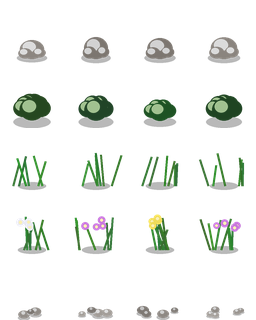
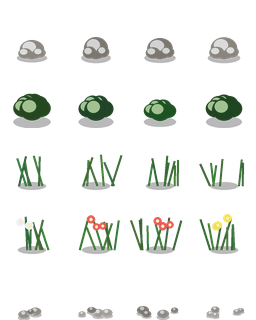
feat: water HD pass + terrain polish nits (#241, #243) (#259)
* feat: water HD pass + terrain polish nits (#241, #243)

Finish the map's visible art with the lead-artist follow-ups from PR #240/#242.

Water (#241 nit 5 / #243 nit 2) — the lake was a desaturated grey slate. Saturate it
to a real blue (base #2E86C0 / deep #1E6494) and stop the water tiles from taking the
GRASS relief lighting: terrain_tint.gdshader now detects water by its blue-dominant
albedo and gives it a flat, hue-preserving directional sheen instead of the green/ochre
relief. That relief was both greening the blue and — because its world-space height
swells average differently in each tile-window crop — stepping into a hard chevron at
every water tile edge. The water mega is now near-uniform (fine ripple grain + cyan
crests + warm sun-glint flecks), so no window-average step remains. Fixes water in-game,
not just the showcase.

Void wedge (#243 nit 1) — the off-map triangle read as a flat unfinished slab; the
showcase BG gradient gains a soft centre glow so it reads as atmospheric depth in every
framing.

Doodads (#241 nit 3) — knock ~15% saturation off the neon grass-blade tufts.
World-space tint (#241 nit 4) — trim the brightness swing 0.10 -> 0.08 (mid-field read
a touch blotchy). Flame (#241 nit 1) — shrink the campfire sprite 20%.

Closes #241, #243

Claude-Session: https://claude.ai/code/session_011XXrArQbzXBMjmQfcGAmyp

* polish: address acceptance-board nits — brown hue drift, water band, tuft outliers
[…]

diff --git a/tools/pack_terrain_atlas.py b/tools/pack_terrain_atlas.py
@@ -398,25 +398,41 @@ def _gen_mega_grass(ss):
 
 
 def _gen_mega_water(ss):
-    """Seamless water mega texture at ss scale: deep-blue base, large soft depth
-    mottling, sparse short wave dashes. Torus-periodic like the grass mega."""
+    """Seamless SATURATED water mega (lead-artist #241 nit 5 + #243 nit 2): a saturated
+    blue base (#2E72A0) over deep-blue troughs (#1B5476). Broad depth swells are kept
+    GENTLE (floor 0.5) so they don't read as hard dark chevrons, and a FINE torus-
+    periodic ripple grain is layered on top -- smooth water otherwise shows a stepped
+    seam at each tile-window edge the way HD grass grain never does, so the grain gives
+    the surface the high-frequency tooth that hides those boundaries. Bright cyan wave
+    crests + warm-white sun-glint flecks. Torus-periodic like the grass mega."""
     w, h = MEGA_W * ss, MEGA_H * ss
     rng = np.random.default_rng(MEGA_SEED + 7)
-    base = _hex("#4A6B70")
-    deep = _hex("#2E4E56")
-    depth = 0.7 * _torus_noise(w, h, 3, 2, rng) + 0.3 * _torus_noise(w, h, 7, 4, rng)
-    rgb = _lerp_rgb(deep, base, np.clip(0.3 + depth * 0.85, 0.0, 1.0))
+    base = _hex("#2E86C0")      # strong blue (survives the relief shader's green multiply)
+    deep = _hex("#1E6494")      # deep blue
+    # NO broad depth swells: low-frequency variation gives each window crop a different
+    # average brightness, which shows as a hard stepped chevron at every tile edge (the
+    # grass hides that with HD grain; smooth water can't). Only fine ripple grain, so
+    # every window crop averages the same -> no tile step. Depth interest comes from the
+    # ripple crests + glint, not from bulk value swings.
+    grain = _torus_noise(w, h, 48, 24, rng)
+    val = np.clip(0.58 + (grain - 0.5) * 0.14, 0.0, 1.0)
+    rgb = _lerp_rgb(deep, base, val)
     img = Image.fromarray(np.clip(rgb, 0, 255).astype(np.uint8), "RGB")
     d = ImageDraw.Draw(img)
     prng = random.Random(MEGA_SEED + 7)
-    wave = _hex("#7FB8CC")
-    for _i in range(340):
+    wave = _hex("#9AD8EA")      # bright cyan ripple crest
+    glint = _hex("#EAF3E0")     # warm-white sun glint
+    for _i in range(420):
         x = prng.uniform(0, w)
         y = prng.uniform(0, h)
         ln = prng.uniform(1.5, 5.0) * ss
-        col = tuple(int(wave[i] * 0.55 + base[i] * 0.45) for i in range(3))
-        if prng.random() < 0.25:
-            col = wave
+        r = prng.random()
+        if r < 0.20:
+            col = glint                                     # sparse warm sun glint
+        elif r < 0.50:
+            col = wave                                      # bright ripple crest
+        else:
+            col = tuple(int(wave[i] * 0.5 + base[i] * 0.5) for i in range(3))
         for dx in (-w, 0, w):
             for dy in (-h, 0, h):
                 d.line([(x + dx, y + dy), (x + dx + ln, y + dy)], fill=col,

diff --git a/tools/gen_doodads.py b/tools/gen_doodads.py
@@ -99,7 +99,9 @@ def _draw_grass(img, rng):
         x0 = cx + rng.uniform(-spread, spread)
         hgt = rng.uniform(0.32, 0.52) * CELL * SS
         lean = rng.uniform(-0.16, 0.16) * CELL * SS
-        g = (46 + rng.randint(-8, 12), 120 + rng.randint(-16, 24), 42 + rng.randint(-8, 12))
+        # Desaturated toward luma + the brightest outliers pulled down another ~10%
+        # (#241 nit 3: a few blades still popped neon under the warm grade).
+        g = (54 + rng.randint(-8, 10), 110 + rng.randint(-16, 14), 51 + rng.randint(-8, 10))
         wdt = max(2 * SS, int(0.03 * CELL * SS))
         d.line([(x0, base_y), (x0 + lean, base_y - hgt)], fill=g + (255,), width=wdt)
 
